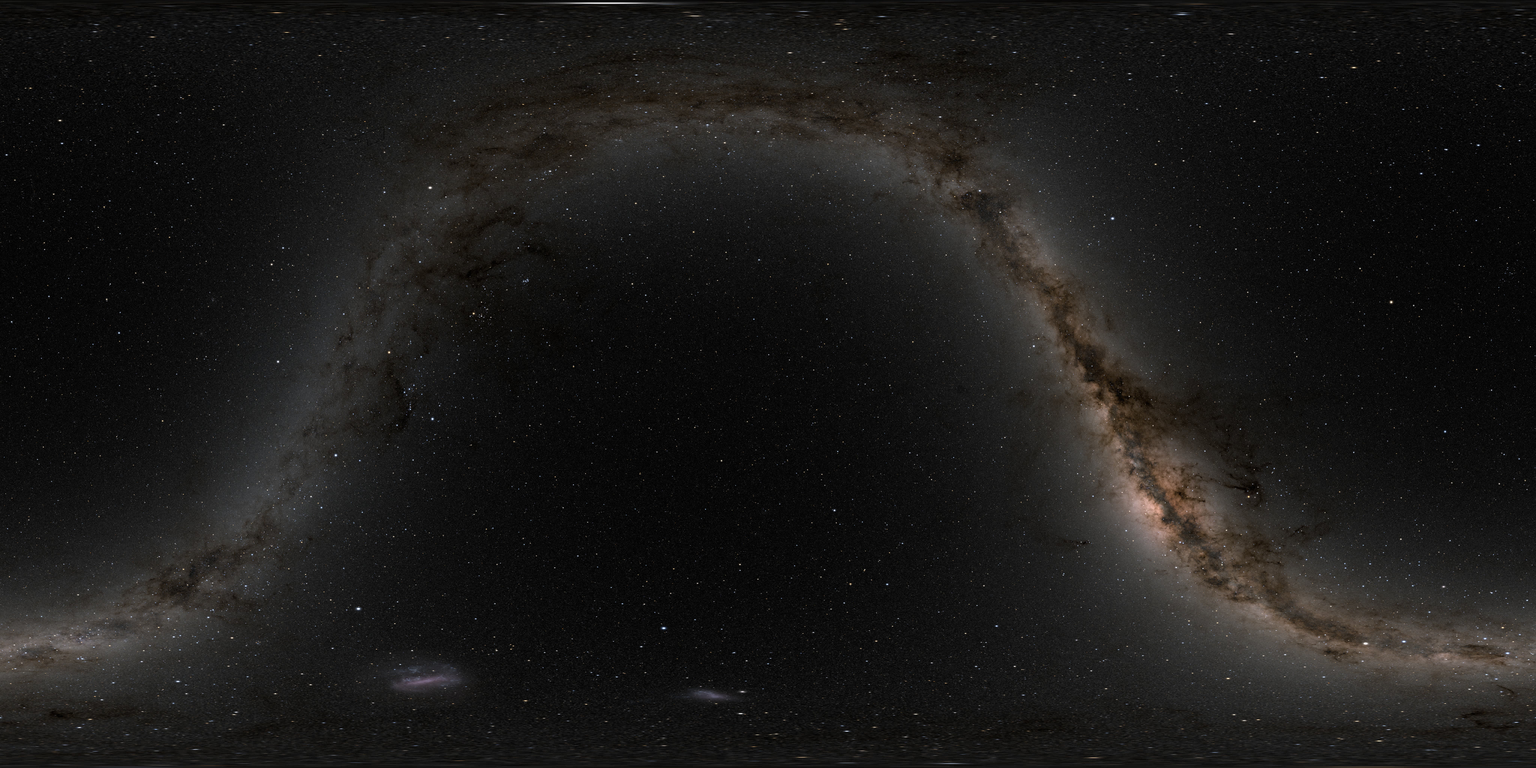
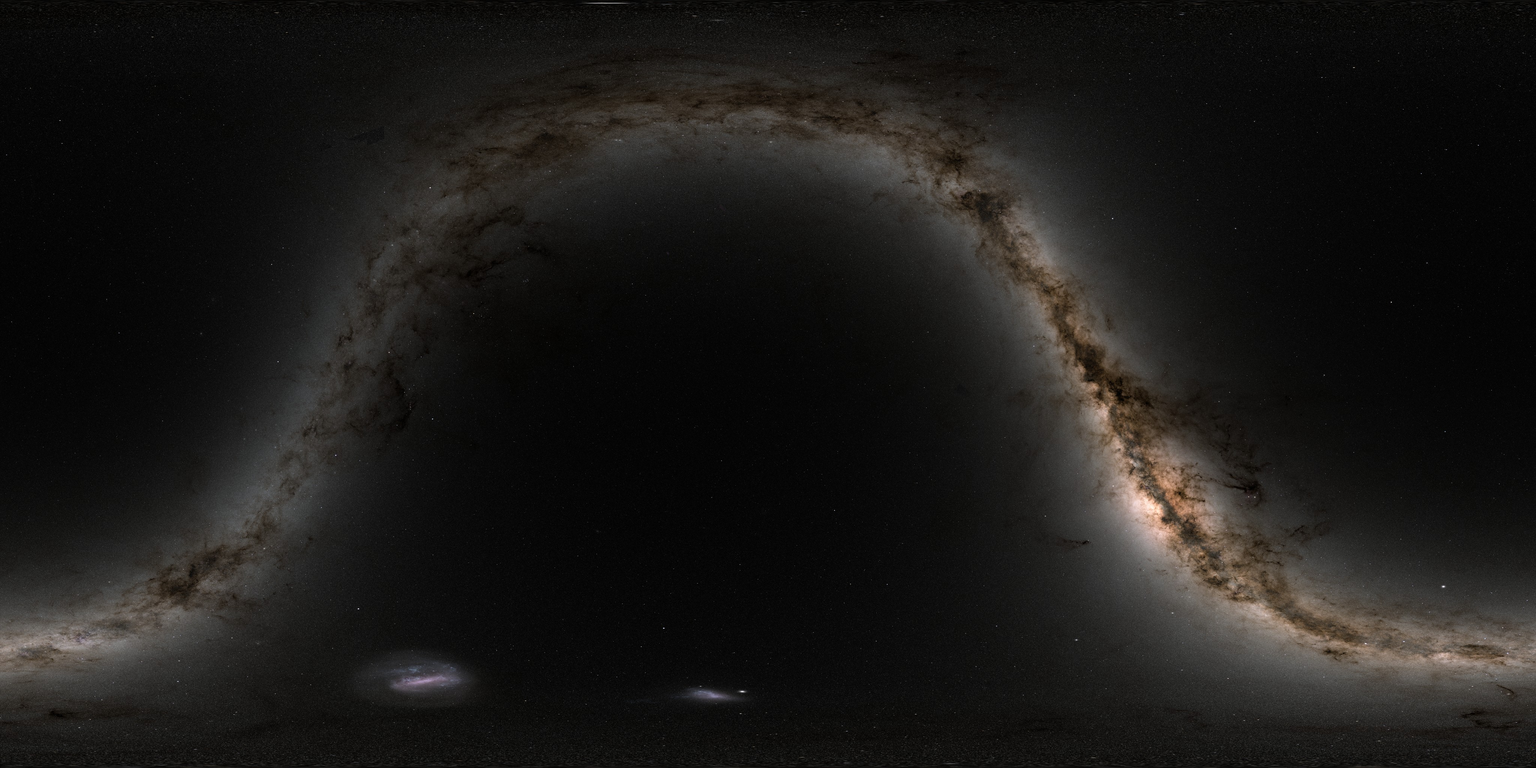
Sky: build NASA 4K/8K base and 16K/32K tiles all from SVS 4851 32K EXR (sRGB box-averaged, NASA 4K screen brightness) so tiles match the base; no horizon cull; retry 403 tiles

diff --git a/lib/sky-photo.ts b/lib/sky-photo.ts
@@ -108,6 +108,9 @@ void main() {
   gl_FragColor = vec4(c, 1.0);
 }`;
 
+/** Loads per tile before it stays on the base map (retries after 4, 8, 16 and 32 s: jsDelivr answers 403 to some first requests for a commit). */
+const SKY_TILE_ATTEMPTS = 5;
+
 /** Renders the NASA star map as the true sky behind the camera, in a WebGL canvas meant to be drawn onto a 2D canvas each frame. */
 export class SkyPhotoRenderer {
   readonly canvas: HTMLCanvasElement;
@@ -116,7 +119,7 @@ export class SkyPhotoRenderer {
   private gl: WebGLRenderingContext | null;
   private uniforms: Record<string, WebGLUniformLocation | null> = {};
   private baseTexture: WebGLTexture | null = null;
-  private tiles = new Map<string, { tex: WebGLTexture | null; usedAt: number; failed?: boolean }>();
+  private tiles = new Map<string, { tex: WebGLTexture | null; usedAt: number; failed?: boolean; attempts: number; retryAt?: number }>();
   private loading = 0;
   private frame = 0;
   /** Tiles with textures, from the frames that drew them. */
@@ -206,22 +209,24 @@ export class SkyPhotoRenderer {
     return true;
   }
 
-  /** Sharper 16K/32K tiles over the base map, only where the screen needs more pixels than the base texture has. */
+  /** Sharper 16K/32K tiles over the base map, only where the screen needs more pixels than the base texture has.
+   * No horizon cull: from altitude the map's horizon sits far below the astronomical one, and the base is built from
+   * the same 32K source, so views over the tile cap just stay at base sharpness. */
   private drawTiles(gl: WebGLRenderingContext, basis: SkyBasis, pixelWidth: number, pixelHeight: number): void {
     this.frame++;
     let level = skyTileLevel(skyPxPerDeg(basis, pixelHeight), this.textureWidth);
-    let visible: SkyTile[] = level ? visibleSkyTiles(basis, pixelWidth, pixelHeight, level, basis.zenith) : [];
+    let visible: SkyTile[] = level ? visibleSkyTiles(basis, pixelWidth, pixelHeight, level) : [];
     if (visible.length > this.maxTiles && level > 16384) {
       level = 16384;
-      visible = visibleSkyTiles(basis, pixelWidth, pixelHeight, level, basis.zenith);
+      visible = visibleSkyTiles(basis, pixelWidth, pixelHeight, level);
     }
     if (visible.length > this.maxTiles) visible = [];
     let drawn = 0;
     gl.enable(gl.SCISSOR_TEST);
     for (const t of visible) {
       const entry = this.tiles.get(t.key);
-      if (!entry) {
-        this.load(t);
+      if (!entry || (entry.failed && entry.attempts < SKY_TILE_ATTEMPTS && performance.now() >= (entry.retryAt ?? 0))) {
+        this.load(t, entry?.attempts ?? 0);
         continue;
       }
       entry.usedAt = this.frame;
@@ -241,9 +246,9 @@ export class SkyPhotoRenderer {
     this.stats = { level, visible: visible.length, drawn, cached: this.tiles.size - failed, failed };
   }
 
-  private load(t: SkyTile): void {
+  private load(t: SkyTile, attempts: number): void {
     if (this.loading >= 6) return;
-    const entry: { tex: WebGLTexture | null; usedAt: number; failed?: boolean } = { tex: null, usedAt: this.frame };
+    const entry: { tex: WebGLTexture | null; usedAt: number; failed?: boolean; attempts: number; retryAt?: number } = { tex: null, usedAt: this.frame, attempts: attempts + 1 };
     this.tiles.set(t.key, entry);
     this.loading++;
     const img = new Image();
@@ -266,6 +271,7 @@ export class SkyPhotoRenderer {
     img.onerror = () => {
       this.loading--;
       entry.failed = true;
+      entry.retryAt = performance.now() + 2000 * 2 ** entry.attempts;
     };
     img.src = skyTileUrl(t.width, t.row, t.col);
   }

diff --git a/lib/sky-tiles.ts b/lib/sky-tiles.ts
@@ -3,7 +3,7 @@ import type { SkyBasis } from './sky-photo';
 /** 512 px JPEG tiles cut from the NASA SVS 4851 16K and 32K EXRs by scripts/build-nasa-sky-tiles.py. */
 export const SKY_TILE_PX = 512;
 export const SKY_TILE_LEVELS = [16384, 32768] as const;
-export const SKY_TILE_BASE_URL = 'https://cdn.jsdelivr.net/gh/witternif2003-beep/brain-lab-global-anomaly-map@f9f4399b4118b32e786f948bc2e2f10def3fbdbc';
+export const SKY_TILE_BASE_URL = 'https://cdn.jsdelivr.net/gh/witternif2003-beep/brain-lab-global-anomaly-map@9c321c87fe566e4ed46a23dc292bc38f888c7ea8';
 export const skyTileUrl = (levelWidth: number, row: number, col: number) => `${SKY_TILE_BASE_URL}/${levelWidth / 1024}k/${row}/${col}.jpg`;
 
 /** A tile of one level and the device-pixel rectangle (y down) of the screen it covers. */

diff --git a/tests/sky/sky-tiles.test.ts b/tests/sky/sky-tiles.test.ts
@@ -54,5 +54,5 @@ test("tiles entirely below the horizon are skipped", () => {
   const down = skyBasis(view(0, 0, w, h));
   assert.equal(visibleSkyTiles(down, w, h, 16384, down.zenith).length, 0);
   const up = skyBasis(view(0, 80, w, h));
-  assert.ok(visibleSkyTiles(up, w, h, 16384, up.zenith).length <= 24, "phone view fits the touch tile cap");
+  assert.ok(visibleSkyTiles(up, w, h, 16384).length <= 24, "phone view over the horizon fits the touch tile cap without culling");
 });

diff --git a/scripts/build-nasa-sky-tiles.py b/scripts/build-nasa-sky-tiles.py
@@ -1,11 +1,16 @@
 #!/usr/bin/env python3
-"""Cuts NASA SVS 4851 Deep Star Maps 2020 (https://svs.gsfc.nasa.gov/4851) into 512 px JPEG tiles for lib/sky-photo.ts.
+"""Builds every NASA star-map level lib/sky-photo.ts draws from one source: SVS 4851 Deep Star Maps 2020, 32K EXR
+(https://svs.gsfc.nasa.gov/4851).
 
-Usage: python3 scripts/build-nasa-sky-tiles.py <dir with starmap_2020_{4k,16k,32k}.exr> <out dir>
-Output: <out>/<16k|32k>/<row>/<col>.jpg, row 0 at Dec +90°, col 0 at the image's left edge (RA 12h), same
-plate carrée as the published EXR. NASA renders each resolution separately, and the 16K/32K maps hold far less
-light per pixel than the 4K one (4K pixel ≈ 8.6× the mean of the 16 16K pixels it covers). Each level's linear values are
-therefore scaled so its mean equals the 4K map's, then encoded to sRGB like the 4K/8K JPEGs.
+Usage: python3 scripts/build-nasa-sky-tiles.py <dir with starmap_2020_4k.exr, starmap_2020_32k.exr> <tile out dir> <public/assets dir>
+Output: <tiles>/<16k|32k>/<row>/<col>.jpg (512 px, row 0 at Dec +90°, col 0 at the image's left edge = RA 12h, same plate
+carrée as the EXR) and <assets>/nasa-svs-starmap-8k.jpg, nasa-svs-starmap.jpg (4K).
+
+NASA renders each published resolution separately: a 4K pixel holds ≈8.6× the mean light of the 32K pixels it covers, and
+its faint-star haze looks different. Drawing NASA's own 4K under 32K tiles therefore shows mismatched patches. Here the
+32K linear values are scaled so their mean sRGB value equals that of NASA's 4K map (same screen brightness),
+clipped to 1, encoded to sRGB, and box-averaged in sRGB to 16K, 8K and 4K. WebGL filters and mipmaps these RGB textures in sRGB values too, so every level, magnified or
+minified, shows the same mean brightness: the same sky at a different sharpness.
 Needs: pip install OpenEXR numpy pillow
 """
 import os
@@ -17,12 +22,7 @@ from PIL import Image
 
 TILE = 512
 QUALITY = 85
-
-
-def srgb8(x: np.ndarray) -> np.ndarray:
-    x = np.clip(x.astype(np.float32), 0.0, 1.0)
-    s = np.where(x <= 0.0031308, 12.92 * x, 1.055 * np.power(x, 1 / 2.4) - 0.055)
-    return (s * 255 + 0.5).astype(np.uint8)
+BASE_QUALITY = 90
 
 
 def load(src: str, name: str) -> np.ndarray:
@@ -34,24 +34,57 @@ def mean(img: np.ndarray) -> float:
     return float(sum(img[r:r + 1024].astype(np.float64).sum() for r in range(0, img.shape[0], 1024)) / img.size)
 
 
-def main(src: str, out: str) -> None:
-    ref = mean(load(src, "4k"))
-    for name in ("16k", "32k"):
-        img = load(src, name)
-        gain = ref / mean(img)
-        print(f"{name}: gain {gain:.3f}", flush=True)
-        rows, cols = img.shape[0] // TILE, img.shape[1] // TILE
-        total = 0
-        for r in range(rows):
-            os.makedirs(os.path.join(out, name, str(r)), exist_ok=True)
-            band = srgb8(img[r * TILE:(r + 1) * TILE].astype(np.float32) * gain)
-            for c in range(cols):
-                path = os.path.join(out, name, str(r), f"{c}.jpg")
-                Image.fromarray(band[:, c * TILE:(c + 1) * TILE]).save(path, "JPEG", quality=QUALITY, optimize=True)
-                total += os.path.getsize(path)
-        print(f"{name}: {rows}x{cols} tiles, {total / 1e6:.1f} MB", flush=True)
-        del img
+def srgb(x: np.ndarray) -> np.ndarray:
+    x = np.clip(x, 0.0, 1.0)
+    return np.where(x <= 0.0031308, 12.92 * x, 1.055 * np.power(x, 1 / 2.4) - 0.055)
+
+
+def u8(s: np.ndarray) -> np.ndarray:
+    return (np.clip(s, 0.0, 1.0) * 255 + 0.5).astype(np.uint8)
+
+
+def box(x: np.ndarray, f: int) -> np.ndarray:
+    return x.reshape(x.shape[0] // f, f, x.shape[1] // f, f, 3).mean(axis=(1, 3))
+
+
+def tiles(out: str, name: str, row0: int, band: np.ndarray, sizes: dict) -> None:
+    enc = u8(band)
+    for r in range(band.shape[0] // TILE):
+        row = row0 + r
+        os.makedirs(os.path.join(out, name, str(row)), exist_ok=True)
+        for c in range(band.shape[1] // TILE):
+            path = os.path.join(out, name, str(row), f"{c}.jpg")
+            Image.fromarray(enc[r * TILE:(r + 1) * TILE, c * TILE:(c + 1) * TILE]).save(path, "JPEG", quality=QUALITY, optimize=True)
+            sizes[name] = sizes.get(name, 0) + os.path.getsize(path)
+
+
+def main(src: str, out: str, assets: str) -> None:
+    ref = mean(srgb(load(src, "4k").astype(np.float32)))
+    img = load(src, "32k")
+    sample = img[::32].astype(np.float32)
+    lo, hi = 1.0, 1000.0
+    for _ in range(40):
+        gain = (lo * hi) ** 0.5
+        lo, hi = (gain, hi) if srgb(sample * gain).mean() < ref else (lo, gain)
+    del sample
+    print(f"32k gain {gain:.3f}", flush=True)
+    sizes: dict = {}
+    b8, b4 = [], []
+    step = 2 * TILE
+    for r0 in range(0, img.shape[0], step):
+        band = srgb(img[r0:r0 + step].astype(np.float32) * gain)
+        tiles(out, "32k", r0 // TILE, band, sizes)
+        tiles(out, "16k", r0 // step, box(band, 2), sizes)
+        b8.append(box(band, 4))
+        b4.append(box(band, 8))
+    del img
+    for arr, name in ((b8, "nasa-svs-starmap-8k.jpg"), (b4, "nasa-svs-starmap.jpg")):
+        path = os.path.join(assets, name)
+        Image.fromarray(u8(np.concatenate(arr))).save(path, "JPEG", quality=BASE_QUALITY, optimize=True)
+        sizes[name] = os.path.getsize(path)
+    for k, v in sizes.items():
+        print(f"{k}: {v / 1e6:.1f} MB", flush=True)
 
 
 if __name__ == "__main__":
-    main(sys.argv[1], sys.argv[2])
+    main(sys.argv[1], sys.argv[2], sys.argv[3])
